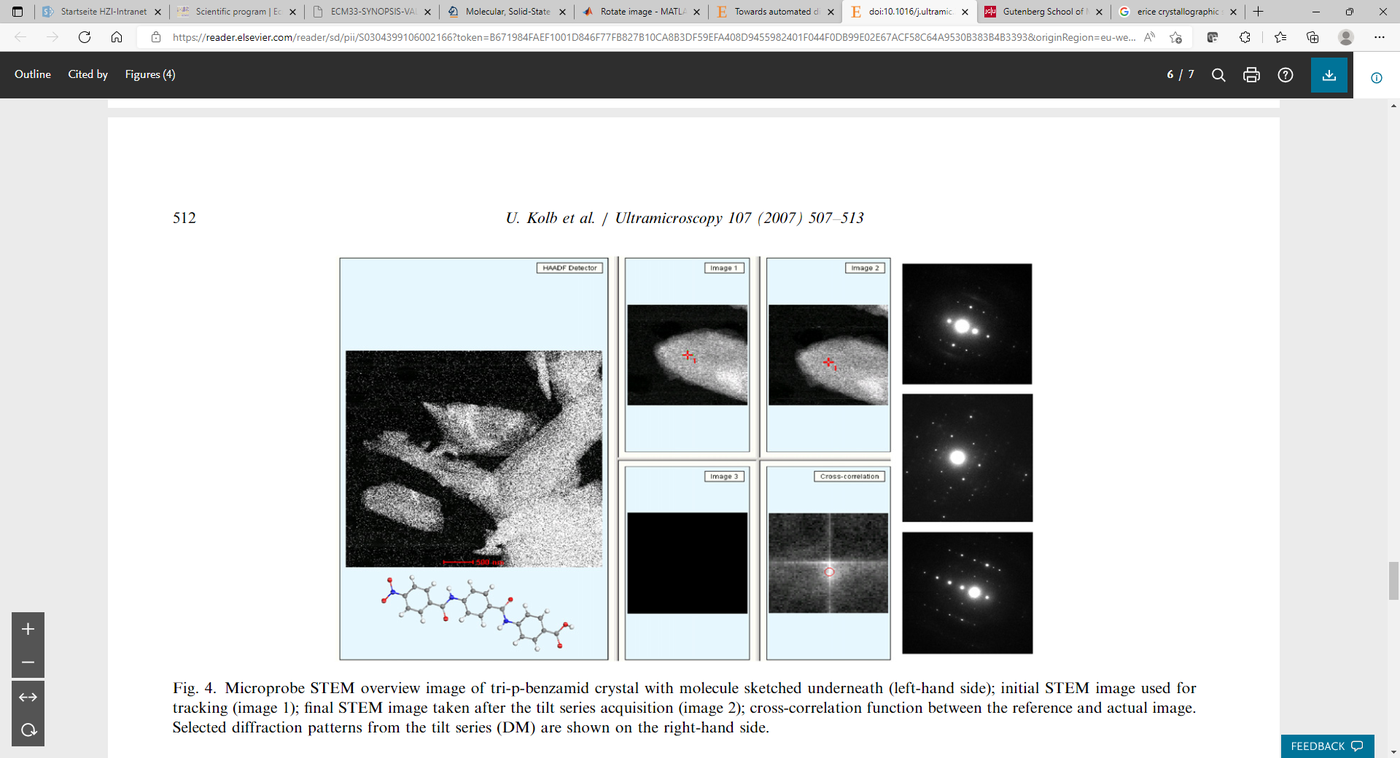
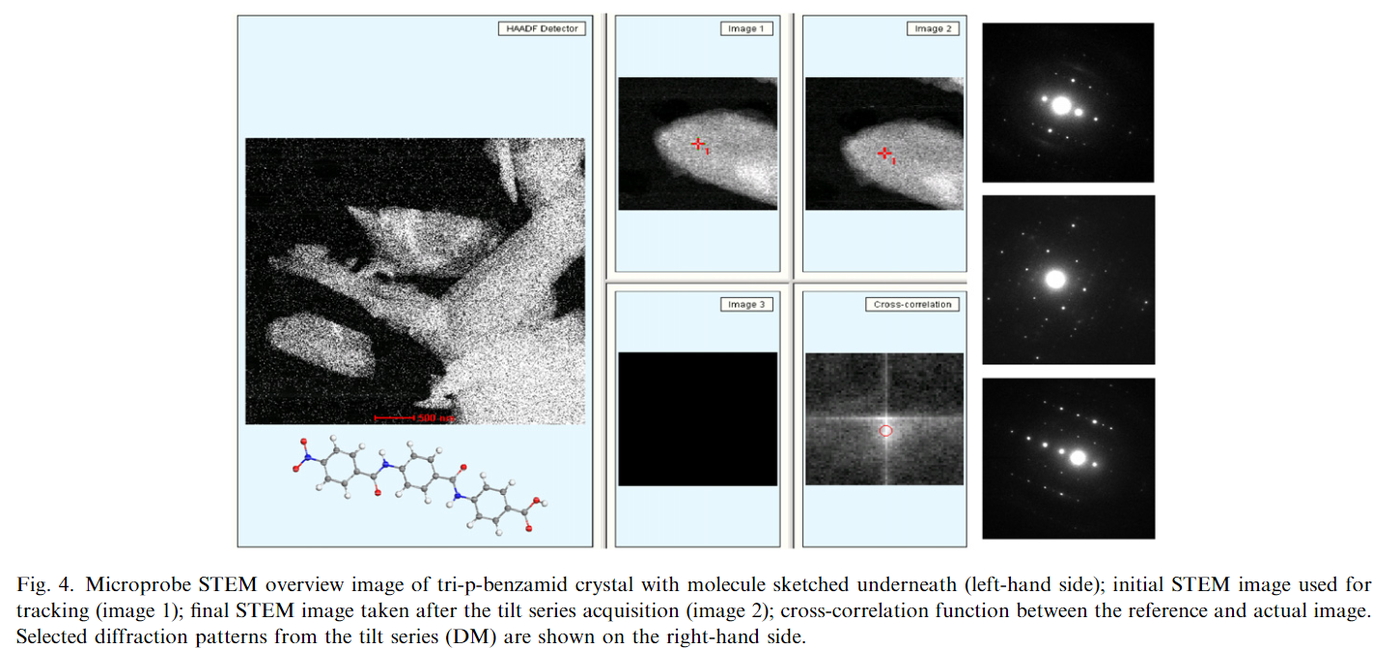
Readability pass on the 3D ED lecture page
Session meta on every block page now names the speaker in full and links
to their card on the instructors page (anchors added there); the
lecture/demo type line is gone, as is the conversion note.

Citations become MyST DOI citations — hover for the full reference, and
the bibliography at the foot of the page is generated from them (DOIs
confirmed via Crossref lookups). The hand-written references list is
gone with its "As cited in the slides" preamble.

Readability: every article figure and movie now opens full-screen on
click (lightbox injected by patch_theme.py, Esc or click to close); the
zonal-pattern grid drops to two columns; the Ewald-sphere movie runs
full column width; the Instamatic stream, Fast ADT flowchart, and still
pattern grow. The four figures that were browser-window screenshots
(Shechtman tilt series, Kolb ADT, linear precession, RED beam-tilt
series) are cropped to their printed figure content — the Kolb caption
extent was measured from the pixel data after two eyeballed crops
clipped it. The dim still-pattern spots get a levels+gamma boost with
the background held at white.

diff --git a/style.css b/style.css
@@ -543,3 +543,29 @@ html.dark .ecs-cite {
   font-family: ui-monospace, SFMono-Regular, Menlo, monospace;
   font-size: 0.8rem;
 }
+
+/* ---------- Lightbox ----------
+   Click any article figure image or movie to view it full screen; click
+   anywhere or press Esc to close. Injected by scripts/patch_theme.py. */
+article figure img,
+article figure video {
+  cursor: zoom-in;
+}
+.ecs-lightbox {
+  position: fixed;
+  inset: 0;
+  z-index: 2000;
+  display: flex;
+  align-items: center;
+  justify-content: center;
+  background: rgba(0, 0, 0, 0.88);
+  cursor: zoom-out;
+}
+.ecs-lightbox img,
+.ecs-lightbox video {
+  max-width: 96vw;
+  max-height: 96vh;
+  width: auto;
+  height: auto;
+  background: #fff;
+}

diff --git a/scripts/patch_theme.py b/scripts/patch_theme.py
@@ -179,6 +179,42 @@ _RUNTIME = """
       }
     },true);
   }
+  /* ---------- click-to-fullscreen lightbox for article figures -------- */
+  function lightboxInit(){
+    if(document.querySelector('.ecs-lightbox'))return;
+    var ov=document.createElement('div');
+    ov.className='ecs-lightbox';
+    ov.hidden=true;
+    document.body.appendChild(ov);
+    function close(){ov.hidden=true;ov.innerHTML='';document.body.style.overflow='';}
+    ov.addEventListener('click',close);
+    document.addEventListener('keydown',function(e){
+      if(e.key==='Escape'&&!ov.hidden)close();
+    });
+    document.addEventListener('click',function(e){
+      var t=e.target;
+      if(ov.contains(t))return;
+      if(t.tagName!=='IMG'&&t.tagName!=='VIDEO')return;
+      if(!t.closest('article')||!t.closest('figure'))return;
+      if(t.closest('a'))return;
+      var el;
+      if(t.tagName==='IMG'){
+        el=document.createElement('img');
+        el.src=t.currentSrc||t.src;
+        el.alt=t.alt||'';
+      }else{
+        el=document.createElement('video');
+        var srcEl=t.querySelector('source');
+        el.src=t.currentSrc||(srcEl?srcEl.src:t.src);
+        el.autoplay=true;el.loop=true;el.muted=true;el.controls=true;
+        el.playsInline=true;
+      }
+      ov.innerHTML='';ov.appendChild(el);ov.hidden=false;
+      document.body.style.overflow='hidden';
+      e.preventDefault();e.stopPropagation();
+    },true);
+  }
+
   /* ---------- organizing-body logos at the bottom of the sidebar ------- */
   var ORGS=[['International Union of Crystallography','https://www.iucr.org/','__IUCR__'],
             ['European Crystallographic Association','https://www.ecanews.org/','__ECA__'],
@@ -203,6 +239,7 @@ _RUNTIME = """
   function tick(){
     build(document.querySelector('button.myst-search-bar'));
     orgsTick();
+    lightboxInit();
   }
   function start(){
     tick();

diff --git a/day1/data-collection-schemes.md b/day1/data-collection-schemes.md
@@ -7,12 +7,7 @@ short_title: "3D ED data collection"
 
 :::{div}
 :class: ecs-session-meta
-**Day 1 · Saturday 8 August · 10:00 – 11:00** — T. Gorelik  
-Lecture
-:::
-
-:::{note}
-This page is converted from Tatiana Gorelik's lecture slides. The figures and animations are taken directly from the deck.
+**Day 1 · Saturday 8 August · 10:00 – 11:00** — [Tatiana Gorelik](../instructors.md#speaker-tatiana-gorelik)
 :::
 
 ## A bit of history
@@ -25,7 +20,7 @@ Electron diffraction was used to pre-orient crystals for high-resolution TEM ima
 :alt: High-resolution TEM image of a dodecagonal quasicrystal with an inset diffraction pattern
 :width: 75%
 
-High-resolution TEM imaging guided by electron diffraction. Krumeich *et al.*, *Journal of Solid State Chemistry* **194** (2012) 106–112; image: Chuvilin, nanoGUNE, San Sebastián.
+High-resolution TEM imaging guided by electron diffraction [](doi:10.1016/j.jssc.2012.04.050); image: Chuvilin, nanoGUNE, San Sebastián.
 :::
 
 ### Tilt series — zonal patterns
@@ -46,7 +41,7 @@ Dual-axis: tilt-rotation
 
 ::::
 
-::::{grid} 2 3 3 3
+::::{grid} 2 2 2 2
 
 :::{figure} ../assets/day1/data-collection/zonal-000.png
 :alt: Zonal diffraction pattern at 0 degrees, zone [001]
@@ -88,7 +83,7 @@ The same tilt-series approach appears in the discovery of quasicrystals:
 :alt: Selected-area electron diffraction patterns from a single grain of the icosahedral phase at a series of rotation angles
 :width: 85%
 
-"Selected-area electron diffraction patterns taken from a single grain of the icosahedral phase. Rotations match those in Fig. 1." — Shechtman *et al.*, "Metallic Phase with Long-Range Orientational Order and No Translational Symmetry", *Physical Review Letters* (1984). The discovery of quasicrystals was awarded the Nobel Prize in Chemistry 2011 (Dan Shechtman).
+"Selected-area electron diffraction patterns taken from a single grain of the icosahedral phase. Rotations match those in Fig. 1." [](doi:10.1103/PhysRevLett.53.1951). The discovery of quasicrystals was awarded the Nobel Prize in Chemistry 2011 (Dan Shechtman).
 :::
 
 ## What is wrong with zonal patterns?
@@ -101,7 +96,7 @@ The same tilt-series approach appears in the discovery of quasicrystals:
 
 :::{figure} ../assets/day1/data-collection/ewald-sphere-rotation.mp4
 :alt: Animation of the Ewald sphere cutting through reciprocal lattice spots, with the resulting diffraction pattern on the detector
-:width: 90%
+:width: 100%
 
 Ewald sphere and diffraction spots (left), and the resulting diffraction pattern on the detector (right).
 :::
@@ -110,6 +105,7 @@ Ewald sphere and diffraction spots (left), and the resulting diffraction pattern
 
 :::{figure} ../assets/day1/data-collection/watermelon.jpg
 :alt: Watermelon with cut slices
+A few sections through a three-dimensional object.
 :::
 
 :::{figure} ../assets/day1/data-collection/needle-crystals.jpg
@@ -146,8 +142,7 @@ Courtesy of P. Oleynikov.
 
 ### Electron beam precession
 
-> Double conical beam-rocking system for measurement of integrated electron diffraction intensities.
-> — Vincent, Midgley, *Ultramicroscopy* **53**, 271 (1994).
+Introduced as a "double conical beam-rocking system for measurement of integrated electron diffraction intensities" [](doi:10.1016/0304-3991(94)90039-6).
 
 The beam is rotating very fast, avoiding the exact in-zone orientation (scan above the specimen, de-scan below).
 
@@ -186,6 +181,8 @@ Record diffraction patterns at many stage tilts, and treat them together as a sa
 :::
 
 ::::
+
+Each pattern is a planar section of the reciprocal space; the sections of a tilt series share the common tilt axis.
 
 :::{figure} ../assets/day1/data-collection/pattern-cred.jpg
 :alt: Electron diffraction pattern of an arbitrarily oriented crystal
@@ -256,7 +253,7 @@ Column ray paths for imaging and diffraction: SAED, nano/micro-ED, STEM.
 :alt: Overview figure of TEM phase contrast imaging, nanobeam 4D-STEM, and large-convergence-angle 4D-STEM geometries
 :width: 70%
 
-Varnavides, G., Kleijne, W.P.M.d. & Ribet, S.M. The ABCs of phase retrieval: Connecting the acronyms of scanning transmission electron microscopy. *MRS Bulletin* **51**, 897–912 (2026).
+Figure from [](doi:10.1557/s43577-026-01100-3).
 :::
 
 :::{figure} ../assets/day1/data-collection/convergence-angles.jpg
@@ -294,7 +291,7 @@ The starting problem: **small crystals**, **beam sensitive** — what is the cry
 :alt: Figure from Kolb et al. 2007 showing a microprobe STEM image used for crystal tracking and the diffraction patterns of a tilt series
 :width: 90%
 
-Microprobe STEM imaging used for tracking, with selected diffraction patterns from the tilt series. U. Kolb *et al.*, *Ultramicroscopy* **107** (2007) 507–513.
+Microprobe STEM imaging used for tracking, with selected diffraction patterns from the tilt series [](doi:10.1016/j.ultramic.2006.10.007).
 :::
 
 ### 3D ED data
@@ -350,7 +347,7 @@ Reconstructed reciprocal-space volume: the unmeasured region forms the missing c
 
 :::{figure} ../assets/day1/data-collection/still-pattern-streaks.jpg
 :alt: Still diffraction pattern of a crystal showing partially recorded reflections
-:width: 60%
+:width: 75%
 :::
 
 :::{figure} ../assets/day1/data-collection/rocking-curve-alq3.mp4
@@ -393,7 +390,7 @@ Combined stage tilt (step ~2°) + high-precision beam tilt (step 0.05°) → **r
 :alt: High-precision beam-tilt series performed in 0.05 degree intervals by the rotation method
 :width: 80%
 
-*Z. Kristallogr.* **225** (2010) 94–102.
+Beam-tilt series recorded with 0.05° steps [](doi:10.1524/zkri.2010.1202).
 :::
 
 ## Fast detectors — digital integration
@@ -406,7 +403,7 @@ Rotate the stage continuously while the detector reads out frames → **continuo
 :alt: Comparison of the still-diffraction method and the continuous-rotation method, with the resulting diffraction patterns
 :width: 90%
 
-Still-diffraction method vs. continuous-rotation method. *Nature Methods* **11**, 927–930 (2014).
+Still-diffraction method vs. continuous-rotation method [](doi:10.1038/nmeth.3043).
 :::
 
 ### Integration geometry
@@ -431,7 +428,7 @@ Precession geometry.
 :alt: SerialEM workflow: find crystals on the grid, store coordinates in the Navigator, set eucentric height, set batch parameters, start script
 :width: 85%
 
-MicroED data collection with SerialEM (SerialEM / Gunter Resch). M.J. de la Cruz *et al.*, *Ultramicroscopy* **201** (2019) 77–80.
+MicroED data collection with SerialEM (SerialEM / Gunter Resch) [](doi:10.1016/j.ultramic.2019.03.009).
 :::
 
 ### Instrumental solutions — Tecnai scripting + CETA dynamic control
@@ -510,7 +507,7 @@ Instamatic — Stef Smeets, Daniel Tchoń.
 
 :::{figure} ../assets/day1/data-collection/cred-pattern-stream.mp4
 :alt: Continuous-rotation electron diffraction data stream recorded with Instamatic
-:width: 60%
+:width: 100%
 
 Data: Stef Smeets, <https://doi.org/10.5281/zenodo.2633052>.
 :::
@@ -526,7 +523,7 @@ Fast ADT — Sergi Plana Ruiz. A DigitalMicrograph plug-in, with pre-tilt routin
 
 :::{figure} ../assets/day1/data-collection/fast-adt-flowchart.png
 :alt: Fast ADT acquisition flowchart covering both sequential and continuous acquisition, with crystal tracking
-:width: 60%
+:width: 85%
 :::
 
 ### 3D 4D-STEM
@@ -597,16 +594,3 @@ Custom solutions (depending on the instrument setup):
 | --- | --- | --- |
 | (small tilt increments) | | (crystal tracking?) |
 
-## References
-
-As cited in the slides:
-
-- R. Vincent, P.A. Midgley, "Double conical beam-rocking system for measurement of integrated electron diffraction intensities", *Ultramicroscopy* **53**, 271 (1994).
-- U. Kolb *et al.*, *Ultramicroscopy* **107** (2007) 507–513.
-- D. Shechtman *et al.*, "Metallic Phase with Long-Range Orientational Order and No Translational Symmetry", *Physical Review Letters* (1984).
-- F. Krumeich *et al.*, *Journal of Solid State Chemistry* **194** (2012) 106–112.
-- "Collecting 3D electron diffraction data by the rotation method", *Z. Kristallogr.* **225** (2010) 94–102.
-- *Nature Methods* **11**, 927–930 (2014).
-- M.J. de la Cruz *et al.*, "MicroED data collection with SerialEM", *Ultramicroscopy* **201** (2019) 77–80.
-- G. Varnavides, W.P.M.d. Kleijne, S.M. Ribet, "The ABCs of phase retrieval: Connecting the acronyms of scanning transmission electron microscopy", *MRS Bulletin* **51**, 897–912 (2026).
-- Test dataset: Stef Smeets, <https://doi.org/10.5281/zenodo.2633052>.

diff --git a/instructors.md b/instructors.md
@@ -63,6 +63,7 @@ The scientific committee of this school is composed of the following well-establ
 ::::{div}
 :class: ecs-people
 
+(speaker-lukas-palatinus)=
 :::{div}
 :class: ecs-person
 ![Lukáš Palatinus](assets/people/lukas-palatinus.jpg)
@@ -70,6 +71,7 @@ The scientific committee of this school is composed of the following well-establ
 *Institute of Physics of the Czech Academy of Sciences*
 :::
 
+(speaker-colin-ophus)=
 :::{div}
 :class: ecs-person
 ![Colin Ophus](assets/people/colin-ophus.jpg)
@@ -77,6 +79,7 @@ The scientific committee of this school is composed of the following well-establ
 *Materials Science and Engineering, Stanford University*
 :::
 
+(speaker-brent-nannenga)=
 :::{div}
 :class: ecs-person
 ![Brent Nannenga](assets/people/brent-nannenga.jpg)
@@ -84,6 +87,7 @@ The scientific committee of this school is composed of the following well-establ
 *School for Engineering of Matter, Transport and Energy, Arizona State University*
 :::
 
+(speaker-marcus-gallagher-jones)=
 :::{div}
 :class: ecs-person
 ![Marcus Gallagher-Jones](assets/people/marcus-gallagher-jones.jpg)
@@ -91,6 +95,7 @@ The scientific committee of this school is composed of the following well-establ
 *The Rosalind Franklin Institute*
 :::
 
+(speaker-tatiana-gorelik)=
 :::{div}
 :class: ecs-person
 ![Tatiana E. Gorelik](assets/people/tatiana-gorelik.jpg)
@@ -98,6 +103,7 @@ The scientific committee of this school is composed of the following well-establ
 *Ernst Ruska Centre, Forschungszentrum Jülich*
 :::
 
+(speaker-sergi-plana-ruiz)=
 :::{div}
 :class: ecs-person
 ![Sergi Plana Ruiz](assets/people/sergi-plana-ruiz.jpg)
@@ -105,6 +111,7 @@ The scientific committee of this school is composed of the following well-establ
 *Universitat Autònoma de Barcelona*
 :::
 
+(speaker-andrew-stewart)=
 :::{div}
 :class: ecs-person
 ![Andrew Stewart](assets/people/andrew-stewart.jpg)
@@ -112,6 +119,7 @@ The scientific committee of this school is composed of the following well-establ
 *Department of Chemistry, University College London*
 :::
 
+(speaker-corrado-cuocci)=
 :::{div}
 :class: ecs-person
 ![Corrado Cuocci](assets/people/corrado-cuocci.jpg)
@@ -119,6 +127,7 @@ The scientific committee of this school is composed of the following well-establ
 *Institute of Crystallography — CNR*
 :::
 
+(speaker-louisa-meshi)=
 :::{div}
 :class: ecs-person
 ![Louisa Meshi](assets/people/louisa-meshi.jpg)

diff --git a/day1/demo-dials.md b/day1/demo-dials.md
@@ -7,8 +7,7 @@ short_title: "Demo: DIALS"
 
 :::{div}
 :class: ecs-session-meta
-**Day 1 · Saturday 8 August · 16:30 – 17:30** — M. Gallagher-Jones  
-Practical demonstration
+**Day 1 · Saturday 8 August · 16:30 – 17:30** — [Marcus Gallagher-Jones](../instructors.md#speaker-marcus-gallagher-jones)
 :::
 
 *Material coming soon.* The slides for this block have not been converted yet. This page will be filled in with the lecture content, figures, and references.

diff --git a/day3/dynamical-refinement-demo.md b/day3/dynamical-refinement-demo.md
@@ -7,8 +7,7 @@ short_title: "Demo: dynamical refinement"
 
 :::{div}
 :class: ecs-session-meta
-**Day 3 · Monday 10 August · 10:00 – 11:00** — L. Palatinus  
-Practical demonstration
+**Day 3 · Monday 10 August · 10:00 – 11:00** — [Lukáš Palatinus](../instructors.md#speaker-lukas-palatinus)
 :::
 
 *Material coming soon.* The slides for this block have not been converted yet. This page will be filled in with the lecture content, figures, and references.

diff --git a/day3/serial-electron-crystallography.md b/day3/serial-electron-crystallography.md
@@ -7,8 +7,7 @@ short_title: "Serial electron crystallography"
 
 :::{div}
 :class: ecs-session-meta
-**Day 3 · Monday 10 August · 11:30 – 12:30** — S. Plana Ruiz  
-Lecture
+**Day 3 · Monday 10 August · 11:30 – 12:30** — [Sergi Plana Ruiz](../instructors.md#speaker-sergi-plana-ruiz)
 :::
 
 *Material coming soon.* The slides for this block have not been converted yet. This page will be filled in with the lecture content, figures, and references.

diff --git a/day1/demo-pets2.md b/day1/demo-pets2.md
@@ -7,8 +7,7 @@ short_title: "Demo: PETS2"
 
 :::{div}
 :class: ecs-session-meta
-**Day 1 · Saturday 8 August · 15:00 – 16:00** — L. Palatinus  
-Practical demonstration
+**Day 1 · Saturday 8 August · 15:00 – 16:00** — [Lukáš Palatinus](../instructors.md#speaker-lukas-palatinus)
 :::
 
 *Material coming soon.* The slides for this block have not been converted yet. This page will be filled in with the lecture content, figures, and references.

diff --git a/day1/reciprocal-space-reconstruction.md b/day1/reciprocal-space-reconstruction.md
@@ -7,8 +7,7 @@ short_title: "Reciprocal space & unit cell"
 
 :::{div}
 :class: ecs-session-meta
-**Day 1 · Saturday 8 August · 11:30 – 12:30** — T. Gorelik  
-Lecture
+**Day 1 · Saturday 8 August · 11:30 – 12:30** — [Tatiana Gorelik](../instructors.md#speaker-tatiana-gorelik)
 :::
 
 *Material coming soon.* The slides for this block have not been converted yet. This page will be filled in with the lecture content, figures, and references.

diff --git a/day1/fundamentals-diffraction.md b/day1/fundamentals-diffraction.md
@@ -7,8 +7,7 @@ short_title: "Fundamentals: diffraction"
 
 :::{div}
 :class: ecs-session-meta
-**Day 1 · Saturday 8 August · 9:00 – 10:00** — A. Stewart  
-Lecture
+**Day 1 · Saturday 8 August · 9:00 – 10:00** — [Andrew Stewart](../instructors.md#speaker-andrew-stewart)
 :::
 
 *Material coming soon.* The slides for this block have not been converted yet. This page will be filled in with the lecture content, figures, and references.

diff --git a/day2/dual-space-methods.md b/day2/dual-space-methods.md
@@ -7,8 +7,7 @@ short_title: "Dual-space methods"
 
 :::{div}
 :class: ecs-session-meta
-**Day 2 · Sunday 9 August · 11:30 – 12:30** — L. Palatinus  
-Lecture
+**Day 2 · Sunday 9 August · 11:30 – 12:30** — [Lukáš Palatinus](../instructors.md#speaker-lukas-palatinus)
 :::
 
 *Material coming soon.* The slides for this block have not been converted yet. This page will be filled in with the lecture content, figures, and references.

diff --git a/day3/dynamical-theory.md b/day3/dynamical-theory.md
@@ -7,8 +7,7 @@ short_title: "Dynamical theory"
 
 :::{div}
 :class: ecs-session-meta
-**Day 3 · Monday 10 August · 9:00 – 10:00** — S. Plana Ruiz  
-Lecture
+**Day 3 · Monday 10 August · 9:00 – 10:00** — [Sergi Plana Ruiz](../instructors.md#speaker-sergi-plana-ruiz)
 :::
 
 *Material coming soon.* The slides for this block have not been converted yet. This page will be filled in with the lecture content, figures, and references.
